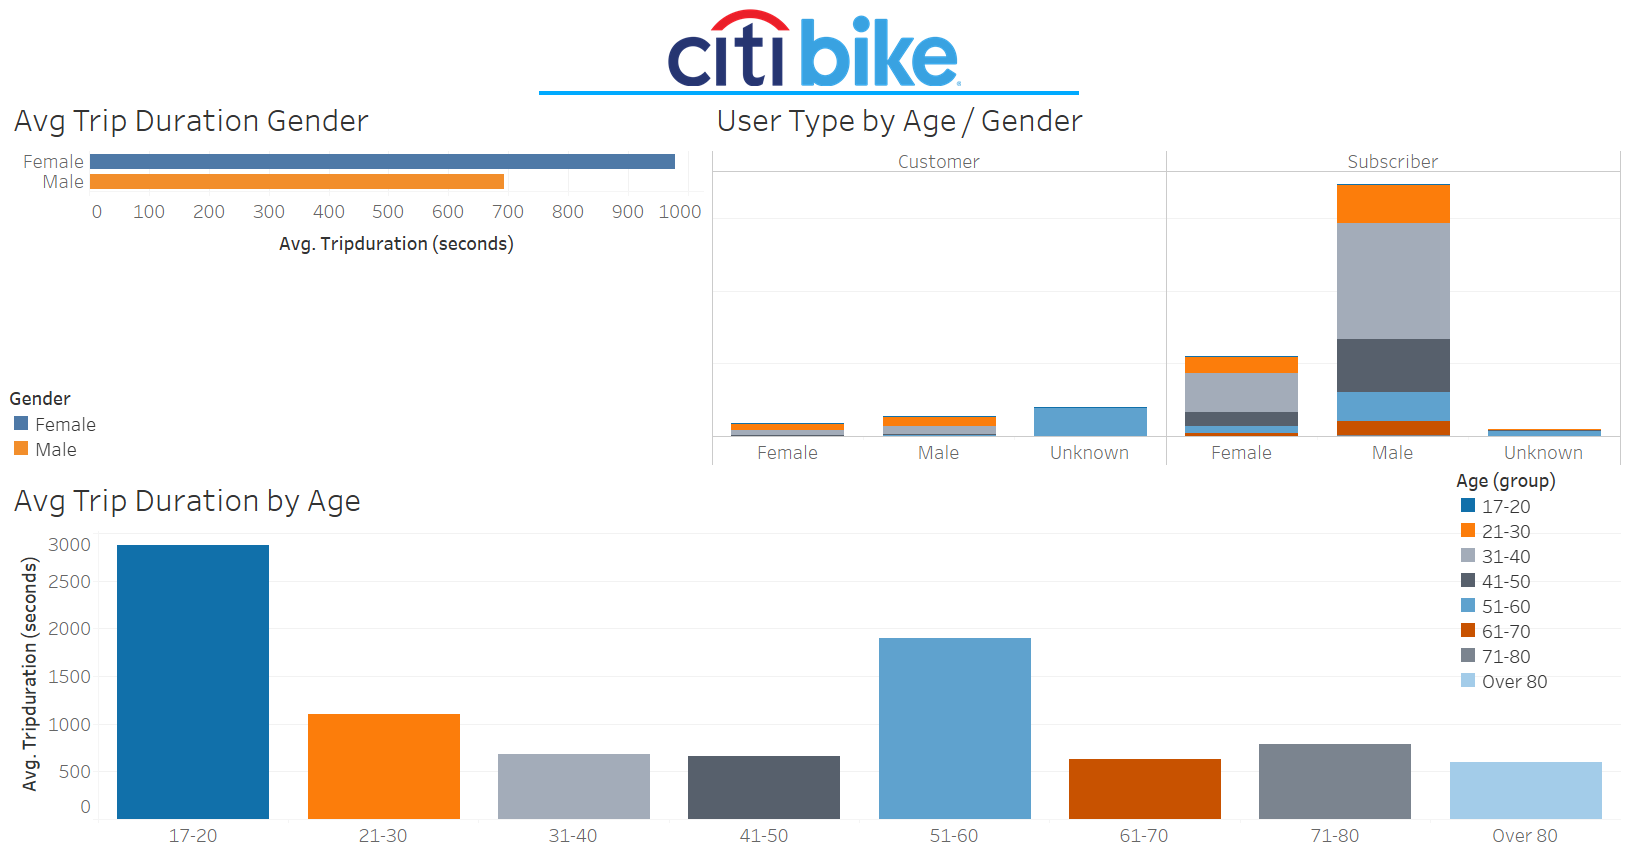
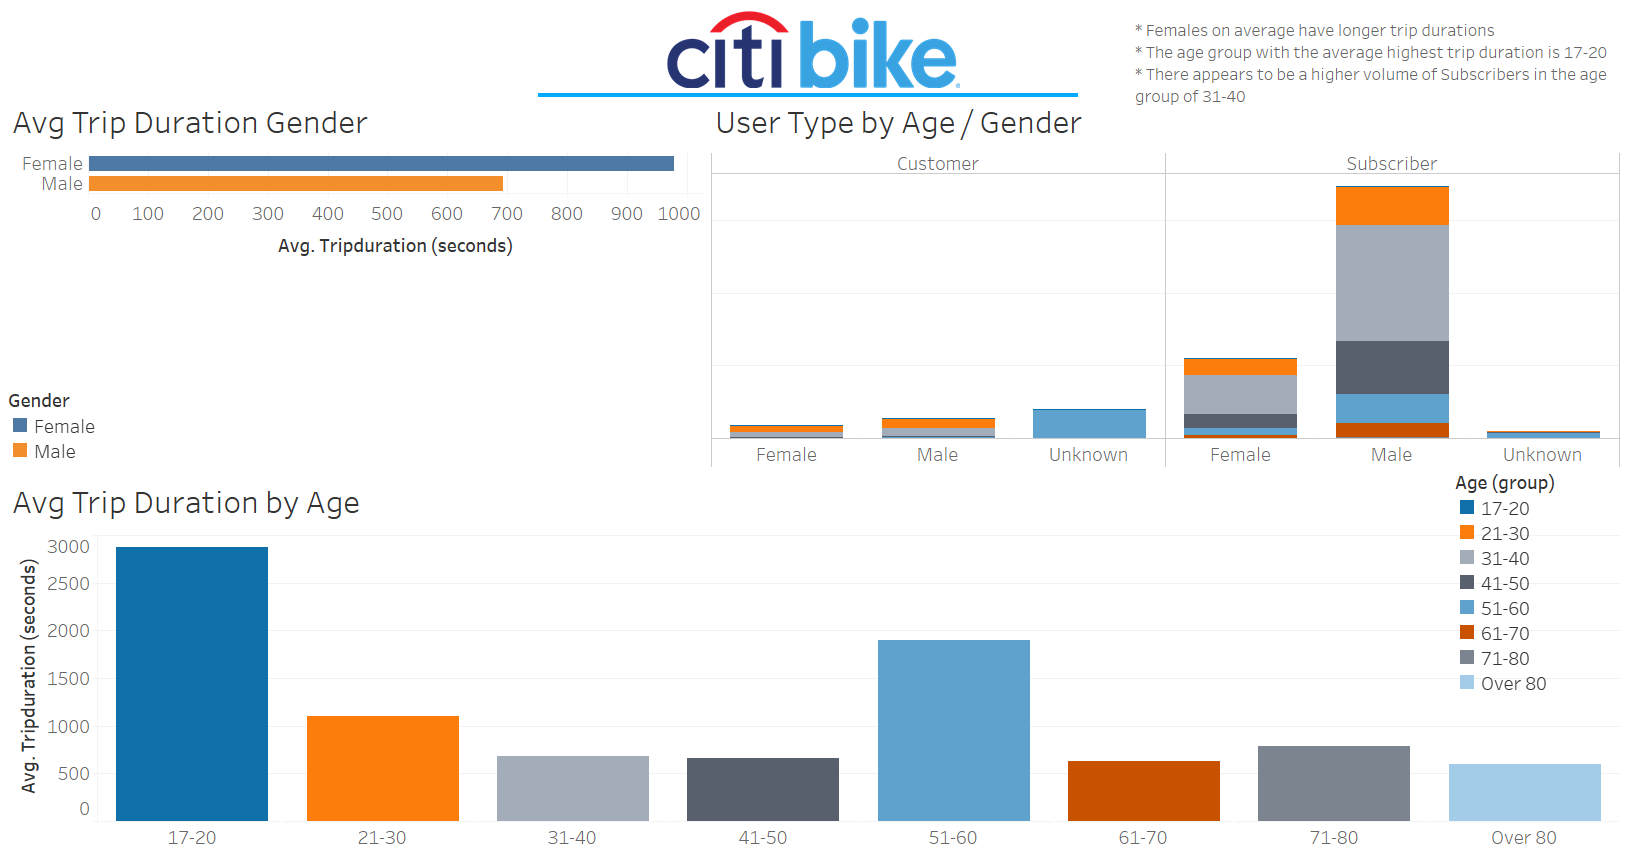
Updated README

diff --git a/README.md b/README.md
@@ -87,42 +87,7 @@ import glob
 |No|Source|Link|
 |-|-|-|
 |1|CitiBike_Complete|https://github.com/alysnow/tableau-challenge/blob/main/data/CitiBike_Complete.csv|
-|2|JC-201801-citibike-tripdata|https://github.com/alysnow/tableau-challenge/blob/main/data|
-|3|JC-201802-citibike-tripdata|https://github.com/alysnow/tableau-challenge/blob/main/data|
-|4|JC-201803-citibike-tripdata|https://github.com/alysnow/tableau-challenge/blob/main/data|
-|5|JC-201804-citibike-tripdata|https://github.com/alysnow/tableau-challenge/blob/main/data|
-|6|JC-201805-citibike-tripdata|https://github.com/alysnow/tableau-challenge/blob/main/data|
-|7|JC-201806-citibike-tripdata|https://github.com/alysnow/tableau-challenge/blob/main/data|
-|8|JC-201807-citibike-tripdata|https://github.com/alysnow/tableau-challenge/blob/main/data|
-|9|JC-201808-citibike-tripdata|https://github.com/alysnow/tableau-challenge/blob/main/data|
-|10|JC-201809-citibike-tripdata|https://github.com/alysnow/tableau-challenge/blob/main/data|
-|11|JC-201810-citibike-tripdata|https://github.com/alysnow/tableau-challenge/blob/main/data|
-|12|JC-201811-citibike-tripdata|https://github.com/alysnow/tableau-challenge/blob/main/data|
-|13|JC-201812-citibike-tripdata|https://github.com/alysnow/tableau-challenge/blob/main/data|
-|14|JC-201901-citibike-tripdata|https://github.com/alysnow/tableau-challenge/blob/main/data|
-|15|JC-201902-citibike-tripdata|https://github.com/alysnow/tableau-challenge/blob/main/data|
-|16|JC-201903-citibike-tripdata|https://github.com/alysnow/tableau-challenge/blob/main/data|
-|17|JC-201904-citibike-tripdata|https://github.com/alysnow/tableau-challenge/blob/main/data|
-|18|JC-201905-citibike-tripdata|https://github.com/alysnow/tableau-challenge/blob/main/data|
-|19|JC-201906-citibike-tripdata|https://github.com/alysnow/tableau-challenge/blob/main/data|
-|20|JC-201907-citibike-tripdata|https://github.com/alysnow/tableau-challenge/blob/main/data|
-|21|JC-201908-citibike-tripdata|https://github.com/alysnow/tableau-challenge/blob/main/data|
-|22|JC-201909-citibike-tripdata|https://github.com/alysnow/tableau-challenge/blob/main/data|
-|23|JC-201910-citibike-tripdata|https://github.com/alysnow/tableau-challenge/blob/main/data|
-|24|JC-201911-citibike-tripdata|https://github.com/alysnow/tableau-challenge/blob/main/data|
-|25|JC-201912-citibike-tripdata|https://github.com/alysnow/tableau-challenge/blob/main/data|
-|26|JC-202001-citibike-tripdata|https://github.com/alysnow/tableau-challenge/blob/main/data|
-|27|JC-202002-citibike-tripdata|https://github.com/alysnow/tableau-challenge/blob/main/data|
-|28|JC-202003-citibike-tripdata|https://github.com/alysnow/tableau-challenge/blob/main/data|
-|29|JC-202004-citibike-tripdata|https://github.com/alysnow/tableau-challenge/blob/main/data|
-|30|JC-202005-citibike-tripdata|https://github.com/alysnow/tableau-challenge/blob/main/data|
-|31|JC-202006-citibike-tripdata|https://github.com/alysnow/tableau-challenge/blob/main/data|
-|32|JC-202007-citibike-tripdata|https://github.com/alysnow/tableau-challenge/blob/main/data|
-|33|JC-202008-citibike-tripdata|https://github.com/alysnow/tableau-challenge/blob/main/data|
-|34|JC-202009-citibike-tripdata|https://github.com/alysnow/tableau-challenge/blob/main/data|
-|35|JC-202010-citibike-tripdata|https://github.com/alysnow/tableau-challenge/blob/main/data|
-|36|JC-202011-citibike-tripdata|https://github.com/alysnow/tableau-challenge/blob/main/data|
-|37|JC-202012-citibike-tripdata|https://github.com/alysnow/tableau-challenge/blob/main/data|
+|2|JC-201801-citibike-tripdata > JC-202012-citibike-tripdata|https://github.com/alysnow/tableau-challenge/blob/main/data|
 
 ## Task
 
@@ -214,13 +179,23 @@ Your final product will be assessed on the following metrics:
 
 ### Dashboard 1 - Most Active Overview
 
+* The last month of Summer is the most popular month
+* Grove St Path is the most popular Starting and Ending Station
+* 8am and 6pm are the most active times in all three years analysed (2018-2020)
+
 ![Dashboard1](images/Dashboard1.PNG)
 
 ### Dashboard 2 - Battle of the Genders
 
+* Females on average have longer trip durations
+* The age group with the average highest trip duration is 17-20
+* There appears to be a higher volume of Subscribers in the age group of 31-40
+
 ![Dashboard2](images/Dashboard2.PNG)
 
 ### Dashboard 3 - Pandemic
+
+* Evidentally there was a large decline in Customers and Subscribers during the COVID Pandemic and an even larger decline in the first quarter of 2021
 
 ![Dashboard3](images/Dashboard3.PNG)
 
